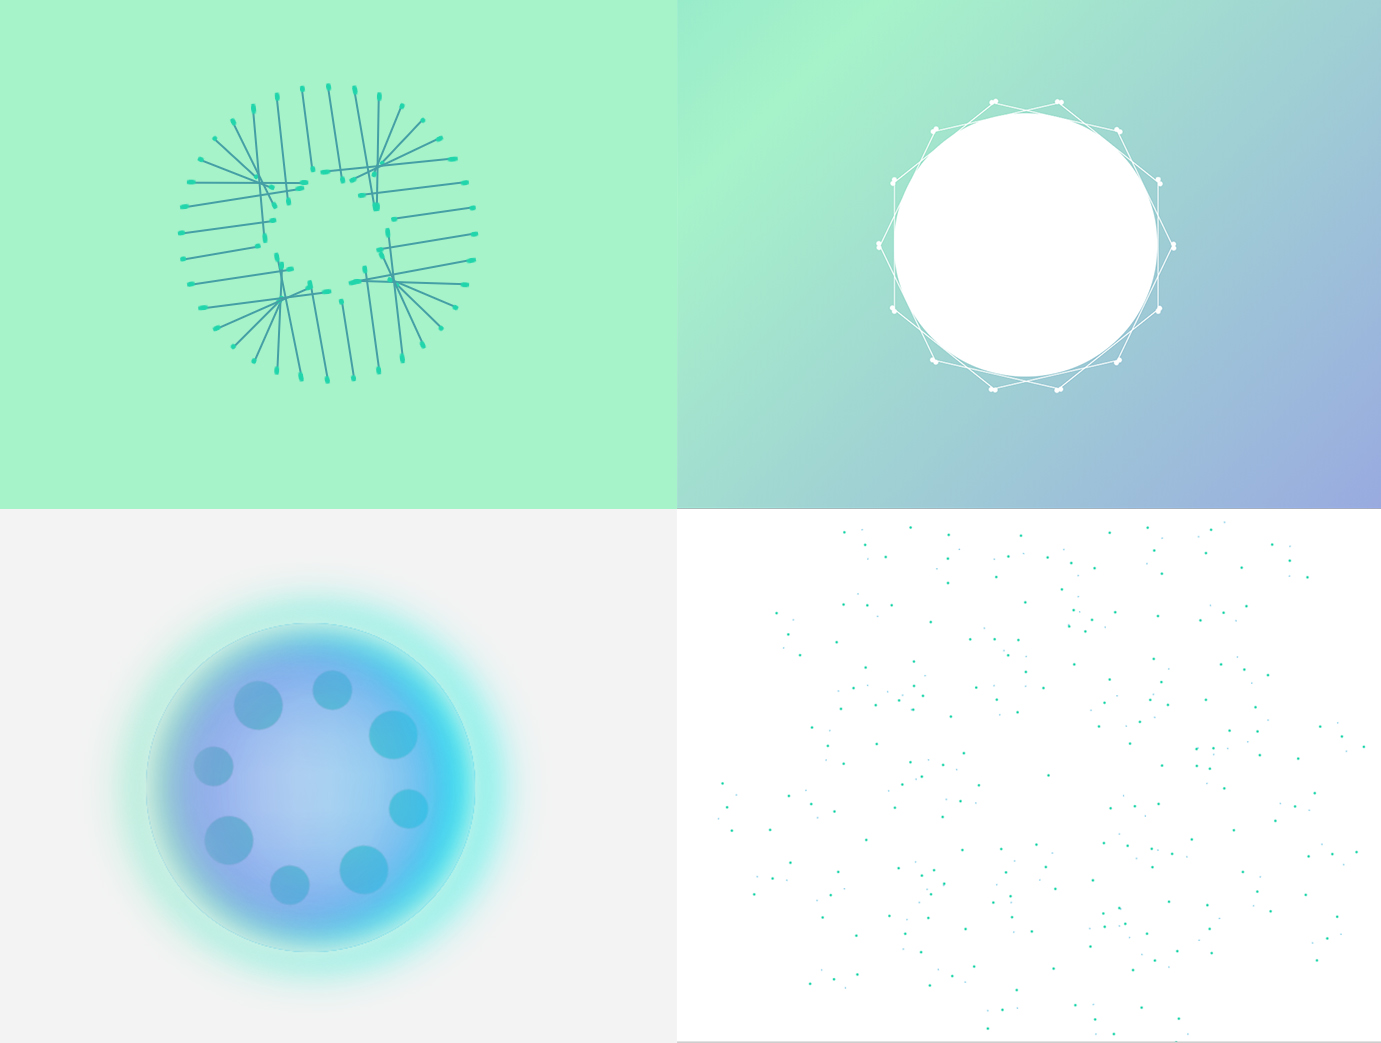
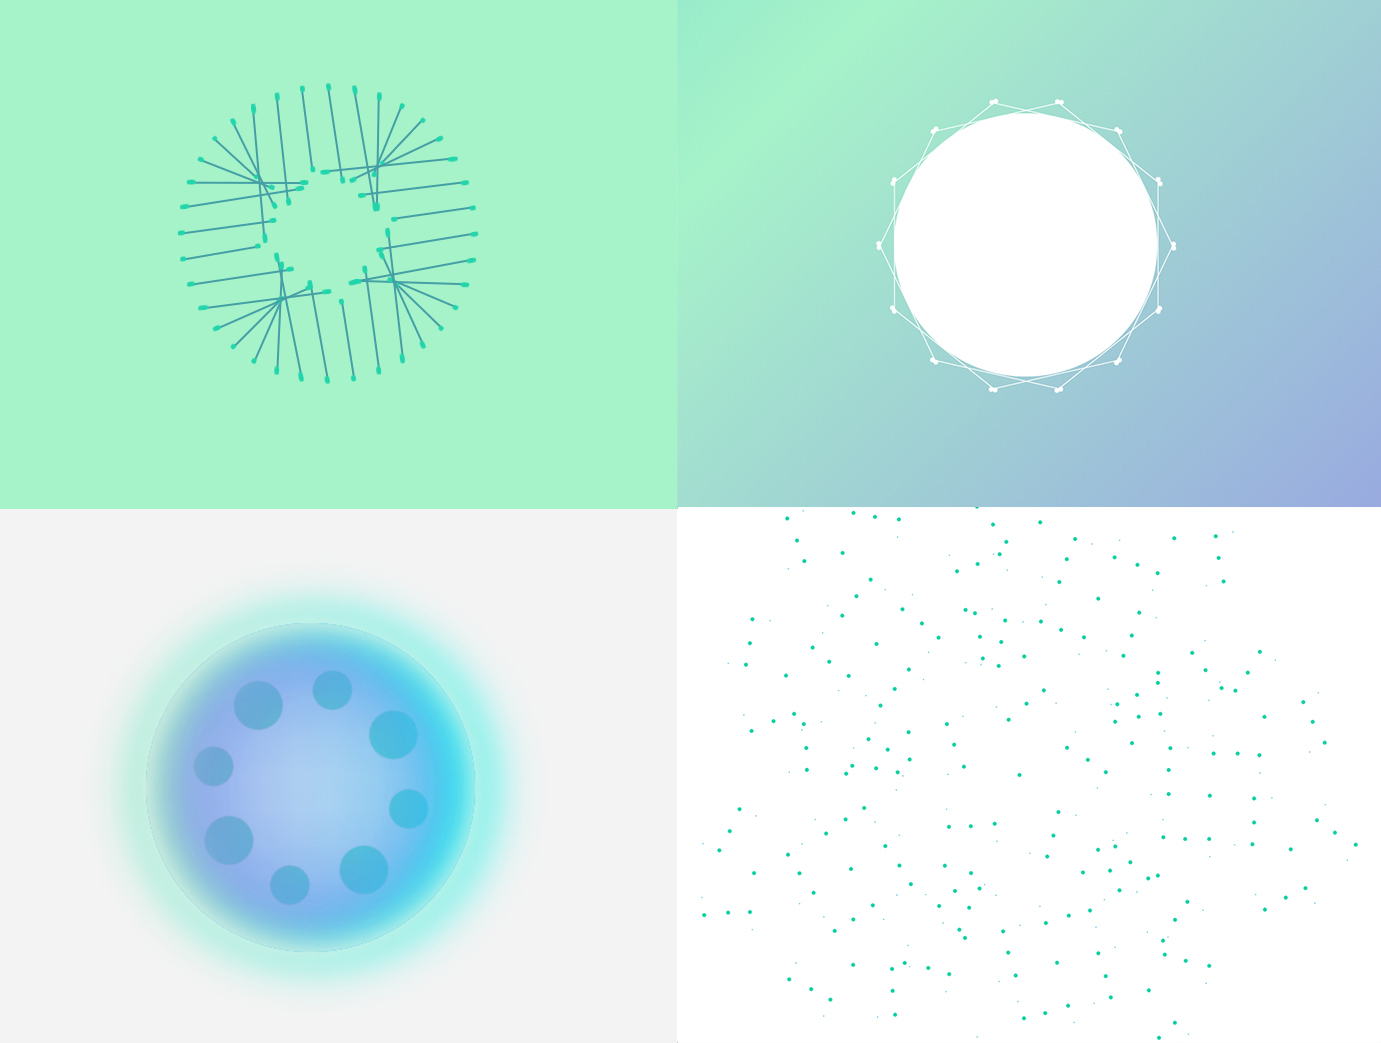
Modify the fourth animation, change preview picture

Changed region(s): [[0.4982, 0.9818, 1.0, 1.0]]

diff --git a/css/style2.css b/css/style2.css
@@ -1,42 +1,30 @@
 @keyframes animate {
   0% {
-    background-position: 50%;
-  }
+    background-position: 50%; }
   8.3333333333% {
-    background-position: 40% 50%, 50%, 50%, 50%, 50%, 50%, 50%, 50%;
-  }
+    background-position: 40% 50%, 50%, 50%, 50%, 50%, 50%, 50%, 50%; }
   16.6666666667% {
-    background-position: 40% 50%, 43% 43%, 50%, 50%, 50%, 50%, 50%, 50%;
-  }
+    background-position: 40% 50%, 43% 43%, 50%, 50%, 50%, 50%, 50%, 50%; }
   25% {
-    background-position: 40% 50%, 43% 43%, 50% 40%, 50%, 50%, 50%, 50%, 50%;
-  }
+    background-position: 40% 50%, 43% 43%, 50% 40%, 50%, 50%, 50%, 50%, 50%; }
   33.3333333333% {
-    background-position: 40% 50%, 43% 43%, 50% 40%, 57% 43%, 50%, 50%, 50%, 50%;
-  }
+    background-position: 40% 50%, 43% 43%, 50% 40%, 57% 43%, 50%, 50%, 50%, 50%; }
   41.6666666667% {
-    background-position: 40% 50%, 43% 43%, 50% 40%, 57% 43%, 60% 50%, 50%, 50%, 50%;
-  }
+    background-position: 40% 50%, 43% 43%, 50% 40%, 57% 43%, 60% 50%, 50%, 50%, 50%; }
   50% {
-    background-position: 40% 50%, 43% 43%, 50% 40%, 57% 43%, 60% 50%, 57% 57%, 50%, 50%;
-  }
+    background-position: 40% 50%, 43% 43%, 50% 40%, 57% 43%, 60% 50%, 57% 57%, 50%, 50%; }
   58.3333333333% {
-    background-position: 40% 50%, 43% 43%, 50% 40%, 57% 43%, 60% 50%, 57% 57%, 50% 60%, 50%;
-  }
+    background-position: 40% 50%, 43% 43%, 50% 40%, 57% 43%, 60% 50%, 57% 57%, 50% 60%, 50%; }
   66.6666666667% {
-    background-position: 40% 50%, 43% 43%, 50% 40%, 57% 43%, 60% 50%, 57% 57%, 50% 60%, 43% 57%;
-  }
+    background-position: 40% 50%, 43% 43%, 50% 40%, 57% 43%, 60% 50%, 57% 57%, 50% 60%, 43% 57%; }
   100% {
-    background-position: 40% 50%, 43% 43%, 50% 40%, 57% 43%, 60% 50%, 57% 57%, 50% 60%, 43% 57%;
-  }
-}
+    background-position: 40% 50%, 43% 43%, 50% 40%, 57% 43%, 60% 50%, 57% 57%, 50% 60%, 43% 57%; } }
 body,
 html {
   overflow: hidden;
   display: flex;
   justify-content: center;
-  align-itrems: center;
-}
+  align-itrems: center; }
 
 html {
   width: 100%;
@@ -44,12 +32,10 @@ html {
   background-color: #f3f3f3;
   background-size: cover;
   background-blend-mode: normal, luminosity;
-  mix-blend-mode: multiply;
-}
+  mix-blend-mode: multiply; }
 
 body {
-  background-color: #000;
-}
+  background-color: #000; }
 
 .bigcircle {
   position: absolute;
@@ -59,8 +45,7 @@ body {
   height: 300px;
   border-radius: 50%;
   z-index: 1;
-  box-shadow: inset 0 0 50px #fff, inset 20px 0 80px #a6f3c9, inset -20px 0 80px #0ff, inset 20px 0 300px #8d66f5, inset -20px 0 300px #0ff, 0 0 50px #fff, -10px 0 80px #a6f3c9, 10px 0 80px #0ff;
-}
+  box-shadow: inset 0 0 50px #fff, inset 20px 0 80px #a6f3c9, inset -20px 0 80px #0ff, inset 20px 0 300px #8d66f5, inset -20px 0 300px #0ff, 0 0 50px #fff, -10px 0 80px #a6f3c9, 10px 0 80px #0ff; }
 
 .dot-container {
   position: absolute;
@@ -70,10 +55,9 @@ body {
   width: 100%;
   height: 100%;
   overflow: hidden;
-  background: transparent;
+  background-color: #fff;
   z-index: 0;
-  animation: rotate 6s linear infinite;
-}
+  animation: rotate 6s linear infinite; }
 
 .dots {
   width: 950px;
@@ -85,33 +69,29 @@ body {
   position: absolute;
   top: 50%;
   left: 50%;
-  transform: translate(-50%, -50%);
-}
-.dots:after {
-  margin: 0;
-  height: 100%;
-  border-radius: 50%;
-  display: block;
-  box-shadow: 0 0 0 2rem #fff;
-  background: var(--gradient), var(--gradient), var(--gradient), var(--gradient), var(--gradient), var(--gradient), var(--gradient), var(--gradient) #fff;
-  background-size: 2.5rem 2.5rem, 3rem 3rem;
-  background-position: 50%;
-  background-repeat: no-repeat;
-  filter: blur(8px) contrast(9);
-  mix-blend-mode: lighten;
-  animation: animate 4s cubic-bezier(0.38, -0.08, 0.42, 2.04) alternate infinite;
-  transform: translateZ(0);
-  content: "";
-}
-.dots:hover {
-  background: linear-gradient(#fff, #fff);
-}
+  transform: translate(-50%, -50%); }
+  .dots:after {
+    margin: 0;
+    height: 100%;
+    border-radius: 50%;
+    display: block;
+    box-shadow: 0 0 0 2rem #fff;
+    background: var(--gradient), var(--gradient), var(--gradient), var(--gradient), var(--gradient), var(--gradient), var(--gradient), var(--gradient) #fff;
+    background-size: 2.5rem 2.5rem, 3rem 3rem;
+    background-position: 50%;
+    background-repeat: no-repeat;
+    filter: blur(8px) contrast(9);
+    mix-blend-mode: lighten;
+    animation: animate 4s cubic-bezier(0.38, -0.08, 0.42, 2.04) alternate infinite;
+    transform: translateZ(0);
+    content: ""; }
+  .dots:hover {
+    background: linear-gradient(#fff, #fff); }
 
 @keyframes rotate {
   from {
-    transform: translate(-50%, -50%) rotate(0deg);
-  }
+    transform: translate(-50%, -50%) rotate(0deg); }
   to {
-    transform: translate(-50%, -50%) rotate(360deg);
-  }
-}
+    transform: translate(-50%, -50%) rotate(360deg); } }
+
+/*# sourceMappingURL=style2.css.map */

diff --git a/scss/style2.scss b/scss/style2.scss
@@ -79,7 +79,7 @@ body {
   width: 100%;
   height: 100%;
   overflow: hidden;
-  background:#fff;
+  background-color: #fff;
   z-index:0;
   animation: rotate 6s linear infinite;
 
@@ -90,7 +90,7 @@ body {
   height: 950px;
   --pos: 50% 50%;
   --gradient: radial-gradient(black 67%, transparent 68%);
-   background: linear-gradient(#ebc98c, #0ff);
+  background: linear-gradient(#ebc98c, #0ff);
   border-radius: 50%;
   position: absolute;
   top: 50%;
@@ -113,7 +113,7 @@ body {
     transform: translateZ(0);
     content: "";
   }
-          &:hover {
+    &:hover {
   background: linear-gradient(#fff, #fff);
   }
 }

diff --git a/Motion Graphics4.html b/Motion Graphics4.html
@@ -44,8 +44,8 @@ body {
   position: absolute;
   top: calc(50% - 2px);
   left: calc(50% - 2px);
-  width: 4px;
-  height: 4px;
+  width: 8px;
+  height: 8px;
   border-radius: 50%;
   background: #23d5ab;
 }
